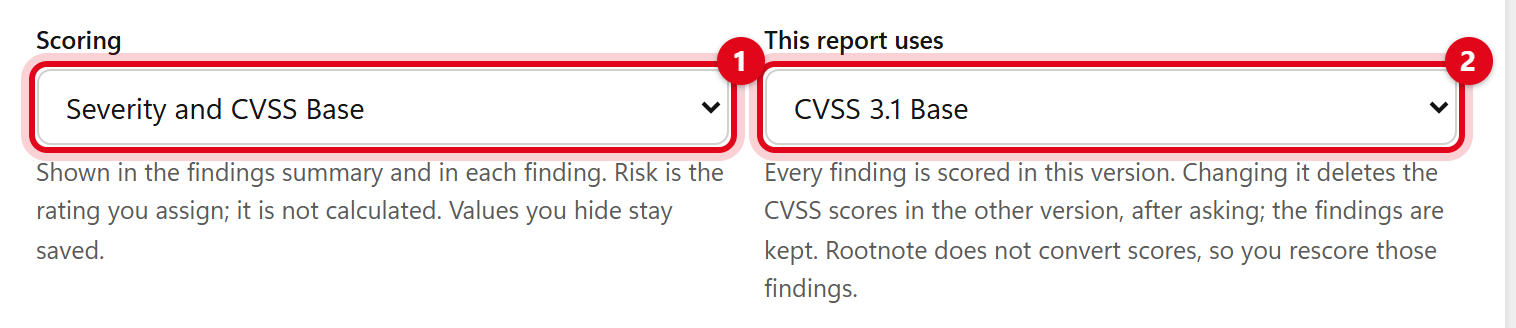
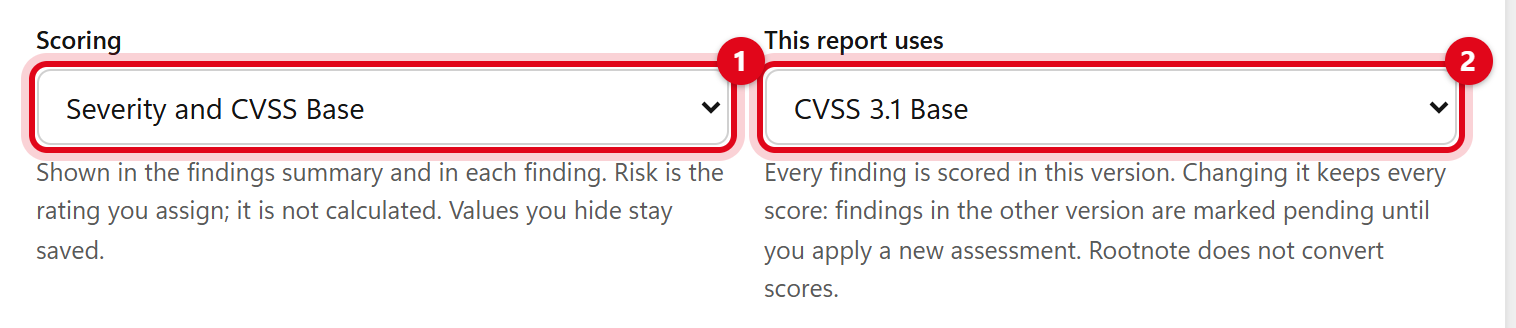
CVSS: switching a report's version keeps scores; findings are pending until applied
A finding scored in the old version keeps its score and is marked pending.
Its calculator suggests only the metrics whose meaning carries over and
marks them; the tester reviews them, chooses the rest and applies the new
assessment, with Undo. Nothing is converted and nothing is stored in the new
version before Apply. Exports that show CVSS stay blocked while any finding
is pending.

diff --git a/src/editor/editor.js b/src/editor/editor.js
@@ -20,7 +20,7 @@ import { scanHandle, scanFileList, projectSummary, planBatch, folderNameProblem 
 import { findingsCsv } from '../app/csv.js';
 import { checklist } from './checklist.js';
 import { canPickSaveLocation, pickSaveFile, writeToHandle, saveErrorText } from './save.js';
-import { parseCvss, cvssVersion, cvssLabel, cvssExportProblem, switchedCvssLabel, reportCvssVersion, formatFindingStatus, formatEngagementStatus } from '../scoring/index.js';
+import { parseCvss, cvssVersion, cvssLabel, cvssExportProblem, cvssSuggestions, switchedCvssLabel, reportCvssVersion, formatFindingStatus, formatEngagementStatus } from '../scoring/index.js';
 import { createReportPlan, resolveEngagementValue } from '../export-docx/plan.js';
 import { findingText } from '../app/finding-text.js';
 import { reportMarkdown } from '../app/report-markdown.js';
@@ -1057,7 +1057,7 @@ export function createEditor(root, { exportDocx, appVersion, maxFindings = LIMIT
         'Shown in the findings summary and in each finding. Risk is the rating you assign; it is not calculated. Values you hide stay saved.'),
         field('This report uses', h('select', { 'data-testid': 'cvss-report-version', onchange: (e) => switchCvssVersion(e.target) },
           ...['3.1', '4.0'].map((v) => h('option', { value: v, selected: p.scoring.cvssVersion === v }, `CVSS ${v} Base`))),
-        'Every finding is scored in this version. Changing it deletes the CVSS scores in the other version, after asking; the findings are kept. Rootnote does not convert scores, so you rescore those findings.'),
+        'Every finding is scored in this version. Changing it keeps every score: findings in the other version are marked pending until you apply a new assessment. Rootnote does not convert scores.'),
         h('div', { class: 'field' }, checkbox(p, 'backToSummaryLinks', 'Add a link back to the findings summary under each finding')))),
       card('Finding status in the report', h('div', { class: 'field', 'data-testid': 'status-display' },
         checkbox(p.findingStatusDisplay, 'keyFacts', 'Show the status in each finding\'s key facts'),
@@ -1238,44 +1238,64 @@ export function createEditor(root, { exportDocx, appVersion, maxFindings = LIMIT
       ...SEVERITIES.map((s) => h('option', { value: s, selected: f.rating === s }, s)));
     const cvssNote = h('span', { class: 'hint', id: 'cvss-note', 'data-testid': 'cvss-note' });
     // The report uses one CVSS version (Sections & scoring); every calculator follows it. A
-    // stored vector in the other version is kept, shown with its own version, and must be
-    // rescored or cleared before a report with CVSS scores is exported.
+    // stored vector in the other version (kept when the report switched, or from a library)
+    // stays until the tester applies an assessment in the report's version or clears it, and
+    // until then blocks exports that show CVSS. Its calculator is a draft seeded with
+    // suggestions that carry over (cvssSuggestions); nothing is stored until Apply.
     const version = reportCvssVersion(doc);
     const metricsFor = version === '4.0' ? CVSS40_METRICS : CVSS_METRICS;
+    const count = metricsFor.length === 8 ? 'eight' : 'eleven';
     const mismatch = () => !!f.cvss && cvssVersion(f.cvss) !== version;
+    const old = mismatch() ? parseCvss(f.cvss) : null;
+    const draft = old ? cvssDraft(f, version) : null;
     // The note always describes the stored vector, plus whichever pending state applies:
-    // invalid typed text (kept until replaced by a valid vector or cleared), or an
-    // incomplete calculator (the stored vector stays until every metric is chosen).
+    // invalid typed text (kept until replaced by a valid vector or cleared), an incomplete
+    // calculator (the stored vector stays until every metric is chosen), or a pending draft.
     let typedError = null;
     const stored = () => {
       if (!f.cvss) return `Not scored. Open the CVSS ${version} calculator and pick every metric, or paste a CVSS ${version} vector.`;
       const parsed = parseCvss(f.cvss);
-      return mismatch()
-        ? `Stored: score ${parsed.score.toFixed(1)} in CVSS ${parsed.version}, but this report uses CVSS ${version}. Rescore it with the calculator below, or clear it, before you export.`
-        : `Score ${parsed.score.toFixed(1)} (CVSS ${parsed.version} Base, calculated from the vector).`;
+      return `Score ${parsed.score.toFixed(1)} (CVSS ${parsed.version} Base, calculated from the vector).`;
+    };
+    const chosen = () => metricsFor.filter(([k]) => picked[k]).length;
+    const draftVector = () => (chosen() === metricsFor.length ? parseCvss(`CVSS:${version}/${metricsFor.map(([k]) => `${k}:${picked[k]}`).join('/')}`) : null);
+    const pendingNote = () => {
+      const head = `Existing CVSS ${old.version} score: ${old.score.toFixed(1)}. CVSS ${version} assessment pending.`;
+      const d = draftVector();
+      return d
+        ? `${head} Draft CVSS ${version} score ${d.score.toFixed(1)}, not applied. Apply it to replace the CVSS ${old.version} score.`
+        : `${head} ${chosen()} of ${metricsFor.length} metrics chosen. Menus marked "suggested" come from the CVSS ${old.version} vector and are not a CVSS ${version} assessment: review every metric. Draft choices are not saved in the project file.`;
     };
     // The calculator button's hint follows the stored score: it says when there is none.
     const calcHint = h('span', { class: 'hint', 'data-testid': 'cvss-calc-hint' });
     const syncHint = () => {
-      calcHint.textContent = mismatch() ? `Rescore this finding in CVSS ${version}`
+      calcHint.textContent = mismatch() ? `CVSS ${version} assessment pending: review the suggestions and apply`
         : f.cvss ? 'Pick the metrics. The report\'s CVSS version is set in Sections & scoring' : 'Not scored yet: pick the metrics to score this finding';
     };
+    const applyButton = h('button', { type: 'button', 'data-testid': 'cvss-apply', disabled: true, onclick: () => { const d = draftVector(); if (d) applyCvss(f, d.vector, version); } }, `Apply CVSS ${version}`);
     const showCvssNote = (error = typedError, incomplete = false) => {
       typedError = error;
       syncHint();
+      applyButton.disabled = !(old && draftVector());
       cvssNote.textContent = error
         ? `${error} Not saved until it is valid, for example ${CVSS_EXAMPLE[version]}. ${f.cvss ? `Still stored: ${f.cvss}.` : ''}`.trim()
-        : incomplete
-          ? `Calculator incomplete: choose all ${metricsFor.length === 8 ? 'eight' : 'eleven'} metrics to change the vector. ${f.cvss ? `Still stored: ${stored()}` : 'Nothing stored yet.'}`
-          : stored();
-      cvssNote.dataset.kind = error || mismatch() ? 'error' : incomplete ? 'pending' : '';
+        : old
+          ? pendingNote()
+          : incomplete
+            ? `Calculator incomplete: choose all ${count} metrics to change the vector. ${f.cvss ? `Still stored: ${stored()}` : 'Nothing stored yet.'}`
+            : stored();
+      cvssNote.dataset.kind = error || old ? 'error' : incomplete ? 'pending' : '';
     };
-    showCvssNote(null);
     const cvss = h('input', {
       type: 'text', class: 'mono', value: f.cvss || '', maxlength: 64, spellcheck: 'false', 'data-testid': 'cvss', placeholder: 'Not scored', 'aria-describedby': 'cvss-note',
       oninput: (e) => {
         const v = e.target.value.trim();
-        if (v === '') { if (setField(f, 'cvss', null)) { showCvssNote(null); syncCalculator(); renderNav(); } return; }
+        // Clearing a pending finding removes its old score: a deliberate step, with Undo.
+        if (v === '') {
+          if (old) applyCvss(f, null, version);
+          else if (setField(f, 'cvss', null)) { showCvssNote(null); syncCalculator(); renderNav(); }
+          return;
+        }
         let parsed;
         try { parsed = parseCvss(v); } catch (err) { showCvssNote(err.message); return; }
         // Only vectors in the report's version are entered; the other version is never stored.
@@ -1283,6 +1303,8 @@ export function createEditor(root, { exportDocx, appVersion, maxFindings = LIMIT
           showCvssNote(`This report uses CVSS ${version}. Enter a CVSS ${version} vector, or change the report's version in Sections & scoring.`);
           return;
         }
+        // A pasted vector replaces a pending finding's old score as an Apply does (with Undo).
+        if (old) { applyCvss(f, parsed.vector, version); return; }
         // Only the canonical metric order is stored; the box shows what the user typed until it is re-rendered.
         if (setField(f, 'cvss', parsed.vector)) { showCvssNote(null); syncCalculator(); renderNav(); }
         else {
@@ -1300,30 +1322,41 @@ export function createEditor(root, { exportDocx, appVersion, maxFindings = LIMIT
     });
     // CVSS calculator: pick the Base metrics; the vector and score follow. The arithmetic is
     // src/scoring (CVSS 3.1 specification, FIRST CVSS 4.0 reference); nothing else is stored.
-    const picked = f.cvss && !mismatch() ? { ...parseCvss(f.cvss).metrics } : {};
+    const picked = draft ? draft.picked : f.cvss ? { ...parseCvss(f.cvss).metrics } : {};
     const selects = metricsFor.map(([key, name, values]) => {
+      const tag = h('span', { class: 'suggested', 'data-testid': `cvss-suggested-${key}`, hidden: !draft?.suggested.has(key) }, 'suggested');
       const sel = h('select', { 'data-testid': `cvss-${key}`, 'aria-label': name,
         onchange: (e) => {
           picked[key] = e.target.value;
+          if (draft) {
+            // A pending finding's calculator is a draft: nothing is stored until Apply.
+            draft.suggested.delete(key);
+            tag.hidden = true;
+            showCvssNote(typedError);
+            return;
+          }
           if (metricsFor.every(([k]) => picked[k])) {
             const vector = `CVSS:${version}/${metricsFor.map(([k]) => `${k}:${picked[k]}`).join('/')}`;
-            // A complete calculator replaces any invalid typed text, or a score in the other version.
+            // A complete calculator replaces any invalid typed text.
             if (setField(f, 'cvss', parseCvss(vector).vector)) { cvss.value = f.cvss; showCvssNote(null); renderNav(); }
             else { syncCalculator(); showCvssNote(); } // refused (budget): menus show the stored vector again
           } else showCvssNote(typedError, true);
         } },
         h('option', { value: '', selected: !picked[key] }, '–'),
         ...values.map(([v, text]) => h('option', { value: v, selected: picked[key] === v }, text)));
-      return h('label', { class: 'field' }, h('span', { class: 'label' }, name), sel);
+      return h('label', { class: 'field' }, h('span', { class: 'label' }, name, ' ', tag), sel);
     });
     function syncCalculator() {
       const m = f.cvss && !mismatch() ? parseCvss(f.cvss).metrics : {};
       metricsFor.forEach(([key], i) => { picked[key] = m[key]; selects[i].querySelector('select').value = m[key] ?? ''; });
     }
-    const calculator = h('details', { class: 'cvss-calc', 'data-testid': 'cvss-calculator', open: mismatch() },
+    showCvssNote(null);
+    const calculator = h('details', { class: 'cvss-calc', 'data-testid': 'cvss-calculator', open: !!old },
       h('summary', {}, `CVSS ${version} calculator`, calcHint),
       version === '4.0' ? h('p', { class: 'hint' }, 'Base metrics only (CVSS-B). Threat, Environmental and Supplemental metrics are not supported.') : null,
-      h('div', { class: 'cvss-grid' }, ...selects));
+      old ? h('p', { class: 'hint', 'data-testid': 'cvss-previous' }, `Previous assessment, CVSS ${old.version}: ${old.score.toFixed(1)}, ${old.vector}`) : null,
+      h('div', { class: 'cvss-grid' }, ...selects),
+      old ? h('div', { class: 'row' }, applyButton) : null);
     return [
       field(showRating ? ratingLabel : `${ratingLabel} (hidden by the scoring setting)`, rating),
       field(showCvss ? labels.cvss : `${labels.cvss} vector (hidden by the scoring setting)`, cvss, cvssNote),
@@ -1354,25 +1387,57 @@ export function createEditor(root, { exportDocx, appVersion, maxFindings = LIMIT
     const next = select.value;
     if (next === from) return;
     const before = { doc, gen: generation, rev: revision };
-    const lose = doc.findings.filter((f) => f.cvss && cvssVersion(f.cvss) !== next);
-    const undoable = undoAvailable();
-    if (lose.length) {
-      const one = lose.length === 1;
-      const ok = await confirmDialog(`Use CVSS ${next} for this report? ${one ? `1 finding has a CVSS ${from} score. Its CVSS score will be deleted; the finding and its other content will be kept.` : `${lose.length} findings have CVSS ${from} scores. Their CVSS scores will be deleted; the findings and their other content will be kept.`} Rootnote does not convert scores between versions. Choose the CVSS ${next} metrics to rescore ${one ? 'it' : 'them'}. ${undoable ? 'Undo is available right after, until your next edit.' : 'This cannot be undone while the project is over the size limit.'}`, `Use CVSS ${next}`);
+    // Scores are kept: a finding scored in the old version waits for the tester to apply an
+    // assessment in the new one (its calculator suggests what carries over). Nothing converts.
+    const pending = doc.findings.filter((f) => f.cvss && cvssVersion(f.cvss) !== next).length;
+    if (pending) {
+      const one = pending === 1;
+      const ok = await confirmDialog(`Use CVSS ${next} for this report? ${one ? `1 finding has a CVSS ${from} score. It is kept and marked CVSS ${next} pending.` : `${pending} findings have CVSS ${from} scores. They are kept and marked CVSS ${next} pending.`} Rootnote does not convert scores: in each finding, review the suggested metrics, choose the rest and apply a CVSS ${next} assessment. Until then, exports that show CVSS are blocked.`, `Use CVSS ${next}`);
       if (!ok || generation !== before.gen || revision !== before.rev || doc !== before.doc) { select.value = from; return; }
     }
-    const saved = lose.map((f) => [f, f.cvss]);
     const label = p.labels.cvss;
     const newLabel = switchedCvssLabel(label, next);
-    const apply = () => { p.scoring.cvssVersion = next; p.labels.cvss = newLabel; for (const [f] of saved) f.cvss = null; };
-    const revert = () => { p.scoring.cvssVersion = from; p.labels.cvss = label; for (const [f, v] of saved) f.cvss = v; };
+    const apply = () => { p.scoring.cvssVersion = next; p.labels.cvss = newLabel; };
+    const revert = () => { p.scoring.cvssVersion = from; p.labels.cvss = label; };
     if (!change(apply, revert)) { select.value = from; return; }
     renderNav();
     render();
-    say(`This report now uses CVSS ${next}.${saved.length ? ` ${saved.length} CVSS score${saved.length === 1 ? '' : 's'} deleted; rescore ${saved.length === 1 ? 'that finding' : 'those findings'} with the calculator.` : ''}`);
-    if (saved.length && undoable) {
-      offerUndo(`Switched the report to CVSS ${next} and deleted ${saved.length} CVSS score${saved.length === 1 ? '' : 's'}.`,
-        () => (change(revert, apply) ? true : BUDGET_REASON), () => { renderNav(); render(); say(`This report uses CVSS ${from} again; the scores are back.`); });
+    say(`This report now uses CVSS ${next}.${pending ? ` ${pending} finding${pending === 1 ? ' is' : 's are'} pending a CVSS ${next} assessment; Check & export lists ${pending === 1 ? 'it' : 'them'}.` : ''}`);
+    if (pending && undoAvailable()) {
+      offerUndo(`Switched the report to CVSS ${next}.`,
+        () => (change(revert, apply) ? true : BUDGET_REASON), () => { renderNav(); render(); say(`This report uses CVSS ${from} again.`); });
+    }
+  }
+
+  // Draft calculators for findings pending a new CVSS version, in memory only: keyed by the
+  // project, the finding, the target version and the stored vector, so a changed vector or
+  // project starts afresh. Seeded with cvssSuggestions; never saved.
+  const cvssDrafts = new WeakMap();
+  function cvssDraft(f, version) {
+    let byDoc = cvssDrafts.get(doc);
+    if (!byDoc) cvssDrafts.set(doc, byDoc = new Map());
+    const key = `${f.id}|${version}|${f.cvss}`;
+    if (!byDoc.has(key)) {
+      const picked = cvssSuggestions(f.cvss, version);
+      byDoc.set(key, { picked, suggested: new Set(Object.keys(picked)) });
+    }
+    return byDoc.get(key);
+  }
+  /** Replaces a pending finding's score in the other version with `vector` (or clears it),
+   * as one change with Undo. */
+  function applyCvss(f, vector, version) {
+    const previous = f.cvss;
+    const was = cvssVersion(previous);
+    if (!change(() => { f.cvss = vector; }, () => { f.cvss = previous; })) { render(); return; }
+    renderNav();
+    render();
+    say(vector ? `Applied the CVSS ${version} assessment; it replaces the CVSS ${was} score.` : `Cleared the CVSS ${was} score.`);
+    if (undoAvailable()) {
+      offerUndo(vector ? `Applied CVSS ${version} to "${short(f.title || '(untitled)')}".` : `Cleared the CVSS ${was} score of "${short(f.title || '(untitled)')}".`, () => {
+        const g = findingById(f.id);
+        if (!g) return 'the finding no longer exists.';
+        return change(() => { g.cvss = previous; }, () => { g.cvss = vector; }) || BUDGET_REASON;
+      }, () => { renderNav(); render(); say(`The CVSS ${was} score is back.`); });
     }
   }
 

diff --git a/src/scoring/index.js b/src/scoring/index.js
@@ -103,6 +103,28 @@ export function cvssExportProblem(doc, withCvss = doc.project.scoring.mode.inclu
   return `${n === 1 ? '1 finding is' : `${n} findings are`} scored in another CVSS version than this report's CVSS ${reportCvssVersion(doc)}. Rescore or clear ${n === 1 ? 'its score' : 'their scores'} first; Check & export lists ${n === 1 ? 'it' : 'them'}.`;
 }
 
+/** Suggestions for scoring a finding in `target` from its vector in the other CVSS version:
+ * only metrics whose meaning carries over (Codex/Marketing 156; FIRST CVSS 4.0 user guide).
+ * They are a draft for the tester to review, never a score: Rootnote does not convert.
+ * 3.1 to 4.0: Attack Vector and Privileges Required; User Interaction only when it was None;
+ * Confidentiality, Integrity and Availability as the vulnerable system's only when Scope was
+ * Unchanged. Attack Complexity, Attack Requirements and the other systems' impact are left
+ * to the tester (3.1 Attack Complexity covered what 4.0 splits into two questions).
+ * 4.0 to 3.1: Attack Vector, Privileges Required, and User Interaction (Passive or Active is
+ * Required). Returns the suggested metrics, possibly none. */
+export function cvssSuggestions(vector, target) {
+  const { version, metrics: m } = parseCvss(vector);
+  if (version === target) return {};
+  const out = { AV: m.AV, PR: m.PR };
+  if (target === '4.0') {
+    if (m.UI === 'N') out.UI = 'N';
+    if (m.S === 'U') Object.assign(out, { VC: m.C, VI: m.I, VA: m.A });
+  } else {
+    out.UI = m.UI === 'N' ? 'N' : 'R';
+  }
+  return out;
+}
+
 /** A CVSS 3.1 or 4.0 Base vector, by its prefix: { version, vector, metrics, score }. Callers
  * that must accept only 3.1 (older file versions) keep using parseCvss31. */
 export function parseCvss(input) {

diff --git a/src/editor/checklist.js b/src/editor/checklist.js
@@ -48,7 +48,7 @@ export function checklist(doc) {
     // would otherwise mix scores that cannot be compared. The CSV always holds CVSS scores.
     if (f.cvss && cvssVersion(f.cvss) !== reportCvssVersion(doc)) {
       warnings.push({ where, go: f.id, text: mode.endsWith('cvss')
-        ? `Scored in CVSS ${cvssVersion(f.cvss)}, but this report uses CVSS ${reportCvssVersion(doc)}. Rescore or clear it; until then, export will fail.`
+        ? `CVSS ${reportCvssVersion(doc)} assessment pending (it has a CVSS ${cvssVersion(f.cvss)} score). Apply a CVSS ${reportCvssVersion(doc)} assessment or clear its score; until then, export will fail.`
         : `Has a CVSS ${cvssVersion(f.cvss)} vector, but this report uses CVSS ${reportCvssVersion(doc)}. CVSS is hidden in the report; Findings as CSV is refused until you rescore or clear it.` });
     }
     if (enabled('finding', 'assets') && !(f.affectedAssets || []).length) warnings.push({ where, go: f.id, text: `${label('assets')} is empty.` });

diff --git a/src/app/style.css b/src/app/style.css
@@ -656,6 +656,9 @@ button:disabled:not(.secondary):not(.ghost):not(.linkish) { background: var(--pa
 .finding > .cvss-calc > summary:hover { border-color: var(--fg); }
 .finding > .cvss-calc > summary .hint { font-weight: 400; }
 .finding > .cvss-calc[open] > summary { margin-bottom: 10px; }
+/* A metric suggested from the other CVSS version until the tester picks it. */
+.cvss-calc .suggested { font-size: 11px; font-weight: 600; text-transform: uppercase; letter-spacing: .04em; color: var(--fg); background: var(--warn-bg); border-radius: 4px; padding: 1px 5px; }
+.cvss-calc .suggested[hidden] { display: none; }
 .finding > .cvss-calc[open] { padding: 10px 14px; border: 1px solid var(--line); background: var(--panel); border-radius: var(--radius); }
 .finding > .facts { margin-bottom: 8px; }
 .format-help { margin: 8px 0 0; }

diff --git a/docs/guide/02-findings.md b/docs/guide/02-findings.md
@@ -18,7 +18,7 @@ At the top of a finding:
 
 Rootnote calculates Base scores only: CVSS 3.1 Base, or CVSS 4.0 Base (also called CVSS-B), which leaves out Threat, Environmental and Supplemental metrics. A report uses one CVSS version for every finding, named in the score label. Rootnote does not convert scores between versions.
 
-A finding scored in the other version (for example from your finding library) is marked. Rescore it or clear its score: until then, exports that show CVSS scores, and Findings as CSV, are blocked. You choose the metrics and the severity; it does not choose them for you.
+A finding scored in the other version (after you switch the report's version, or from your finding library) is marked pending, and its old score stays until you replace it. Its calculator suggests the answers whose meaning carries over and marks them **suggested**; review them, choose the rest, then click **Apply**. Until every pending finding is applied or cleared, exports that show CVSS scores, and Findings as CSV, are blocked. You choose the metrics and the severity; it does not choose them for you.
 
 If the report shows CVSS scores and a finding has no vector, the report says *Unscored* for it. That is different from a score of zero.
 

diff --git a/docs/guide/04-report-design.md b/docs/guide/04-report-design.md
@@ -18,7 +18,7 @@ Open **Page, cover and logos** in **Details & cover**.
 
 ## How findings are rated
 
-In **Sections & scoring**, choose **Scoring** (1): severity, risk or CVSS, alone or together. **This report uses** (2) sets the CVSS version for every finding: CVSS 3.1 or CVSS 4.0. Changing it deletes the CVSS scores that use the other version, after asking; the findings are kept. Rootnote does not convert scores between versions, so you rescore those findings. **Undo** brings the scores back if you use it before your next edit.
+In **Sections & scoring**, choose **Scoring** (1): severity, risk or CVSS, alone or together. **This report uses** (2) sets the CVSS version for every finding: CVSS 3.1 or CVSS 4.0. Changing it keeps every score: findings scored in the old version are marked pending until you apply a new assessment in each one (see Findings). Rootnote does not convert scores between versions.
 
 ![The Scoring choice marked 1 and This report uses marked 2.](__IMG_SECTIONS__)
 
